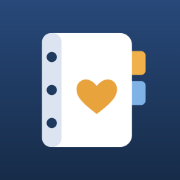
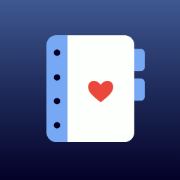
update branding

diff --git a/style.css b/style.css
@@ -1,15 +1,15 @@
 /* Family Health Binder website styles.
    To restyle the whole site, change the colors and fonts in :root below. */
 :root {
-  --brand: #1f3a5f;        /* Binder Navy: buttons, links, icons */
-  --brand-dark: #142844;   /* hover state */
-  --brand-soft: #e6edf6;   /* light accent backgrounds */
-  --accent: #e8a33d;       /* amber: highlights, never small text on white */
-  --accent-text: #c9821e;  /* amber when used as text */
+  --brand: #2b3f75;        /* Navy: buttons, links, icons */
+  --brand-dark: #1f2b5b;   /* hover state */
+  --brand-soft: #e4eaf7;   /* light accent backgrounds */
+  --accent: #eb473b;       /* logo red: small marks only */
+  --accent-text: #b3261e;  /* red when used as text */
   --text: #16202e;
   --muted: #6b7686;
   --bg: #ffffff;
-  --bg-alt: #f3f5f9;
+  --bg-alt: #f4f6fb;
   --border: #e1e5ec;
   --font: -apple-system, BlinkMacSystemFont, "SF Pro Text", "Segoe UI", Roboto, Helvetica, Arial, sans-serif;
   --radius: 14px;
@@ -17,16 +17,16 @@
 }
 @media (prefers-color-scheme: dark) {
   :root {
-    --brand: #8db4e8;
-    --brand-dark: #b4cff2;
-    --brand-soft: #1d2d45;
-    --accent: #f2c271;
-    --accent-text: #f2c271;
+    --brand: #77a8f3;
+    --brand-dark: #a9c8f5;
+    --brand-soft: #1e2c55;
+    --accent: #f0685d;
+    --accent-text: #ff8a80;
     --text: #e6ebf2;
     --muted: #93a0b2;
-    --bg: #0d131c;
-    --bg-alt: #121b28;
-    --border: #223047;
+    --bg: #070a1f;
+    --bg-alt: #0e1330;
+    --border: #232a4a;
   }
 }
 
@@ -137,7 +137,7 @@ details p, details ol, details ul { color: var(--muted); }
 
 /* ---------- Phone mockup (illustrations, not screenshots) ----------
    The app screens inside always use light iOS colors, like a real screenshot. */
-.phone { --ios-bg: #f3f5f9; --ios-card: #fff; --ios-text: #16202e; --ios-muted: #6b7686; --ios-line: #e1e5ec; --ios-blue: #1f3a5f; --ios-green: #2e9d5b;
+.phone { --ios-bg: #f4f6fb; --ios-card: #fff; --ios-text: #16202e; --ios-muted: #6b7686; --ios-line: #e1e5ec; --ios-blue: #2b3f75; --ios-green: #2e9d5b;
   width: 270px; aspect-ratio: 9 / 19.2; background: #1b1f22; border-radius: 44px; padding: 11px; box-shadow: 0 30px 60px -20px rgba(15, 25, 50, .35), 0 0 0 1px rgba(0,0,0,.06);
   flex: none; position: relative; font-family: -apple-system, BlinkMacSystemFont, "SF Pro Text", "Segoe UI", Roboto, sans-serif; }
 .screen { position: relative; height: 100%; border-radius: 34px; overflow: hidden; background: var(--ios-bg); color: var(--ios-text); font-size: 12.5px; line-height: 1.35; }
@@ -156,8 +156,8 @@ details p, details ol, details ul { color: var(--muted); }
 .row .v { font-weight: 500; }
 .row .chev { color: #c4c4c7; font-size: 15px; }
 .avatar { width: 34px; height: 34px; border-radius: 50%; display: grid; place-items: center; font-weight: 600; font-size: 13px; flex: none; }
-.a1 { background: #dce6f3; color: #1f3a5f; } .a2 { background: #fbecd2; color: #8a5a10; } .a3 { background: #ddefe8; color: #22664f; } .a4 { background: #f1e3f2; color: #7a3d82; }
-.pill { font-size: 10px; background: #fbecd2; color: #8a5a10; padding: 2px 7px; border-radius: 10px; white-space: nowrap; }
+.a1 { background: #dce6f8; color: #2b3f75; } .a2 { background: #fce1de; color: #b0322a; } .a3 { background: #ddefe8; color: #22664f; } .a4 { background: #ede4f7; color: #5b3e8f; }
+.pill { font-size: 10px; background: #fce1de; color: #b0322a; padding: 2px 7px; border-radius: 10px; white-space: nowrap; }
 .toast { position: absolute; left: 14px; right: 14px; bottom: 22px; background: var(--ios-green); color: #fff; border-radius: 12px; padding: 10px 12px; font-weight: 600; font-size: 12px; display: flex; gap: 8px; align-items: center; box-shadow: 0 8px 20px rgba(0,0,0,.18); }
 .copied { position: absolute; left: 50%; transform: translateX(-50%); background: rgba(30,30,30,.88); color: #fff; padding: 6px 12px; border-radius: 16px; font-size: 11px; font-weight: 600; }
 
@@ -178,7 +178,7 @@ details p, details ol, details ul { color: var(--muted); }
 .demo-intake .r1 { animation: hl 12s infinite; }
 .demo-intake .r2 { animation: hl 12s 3s infinite; }
 .demo-intake .r3 { animation: hl 12s 6s infinite; }
-@keyframes hl { 0%, 4% { background: transparent; } 6%, 18% { background: #e3eaf4; } 22%, 100% { background: transparent; } }
+@keyframes hl { 0%, 4% { background: transparent; } 6%, 18% { background: #e4eaf7; } 22%, 100% { background: transparent; } }
 .demo-intake .copied { top: 46%; opacity: 0; animation: pop 3s infinite; }
 @keyframes pop { 0%, 8% { opacity: 0; } 14%, 50% { opacity: 1; } 60%, 100% { opacity: 0; } }
 .paper { width: 260px; background: #fffef9; color: #222; border-radius: 6px; padding: 18px 18px 14px; box-shadow: 0 18px 40px -16px rgba(0,0,0,.35); font-family: Georgia, "Times New Roman", serif; transform: rotate(1.5deg); flex: none; position: relative; }
@@ -233,15 +233,15 @@ details p, details ol, details ul { color: var(--muted); }
 }
 
 /* Family screen header band, as in the app */
-.band { background: #1f3a5f; color: #fff; padding-bottom: 14px; margin-bottom: 12px; }
+.band { background: #2b3f75; color: #fff; padding-bottom: 14px; margin-bottom: 12px; }
 .band .statusbar { color: #fff; }
 .band h4 { color: #fff; }
 .band .nav { padding-bottom: 0; }
 .band-sub { color: #c9d6e8; font-size: 11px; margin-top: 2px; }
 .tile b { color: var(--ios-blue); }
-.checks li::before { background: #fbecd2; }
-.checks li::after { border-color: #c9821e; }
-@media (prefers-color-scheme: dark) { .checks li::before { background: #3d2f17; } .checks li::after { border-color: #f2c271; } }
+.checks li::before { background: #e4eaf7; }
+.checks li::after { border-color: #2b3f75; }
+@media (prefers-color-scheme: dark) { .checks li::before { background: #1e2c55; } .checks li::after { border-color: #77a8f3; } }
 
 /* Intake demo: the paper form overlaps the phone */
 .demo-intake { flex-wrap: nowrap; gap: 0; align-items: flex-end; }
@@ -258,9 +258,9 @@ details p, details ol, details ul { color: var(--muted); }
 .demo-intake .r1 { animation: hl1 12s infinite; }
 .demo-intake .r2 { animation: hl2 12s infinite; }
 .demo-intake .r3 { animation: hl3 12s infinite; }
-@keyframes hl1 { 0%, 4% { background: transparent; } 6%, 18% { background: #e3eaf4; } 21%, 100% { background: transparent; } }
-@keyframes hl2 { 0%, 29% { background: transparent; } 31%, 43% { background: #e3eaf4; } 46%, 100% { background: transparent; } }
-@keyframes hl3 { 0%, 54% { background: transparent; } 56%, 68% { background: #e3eaf4; } 71%, 100% { background: transparent; } }
+@keyframes hl1 { 0%, 4% { background: transparent; } 6%, 18% { background: #e4eaf7; } 21%, 100% { background: transparent; } }
+@keyframes hl2 { 0%, 29% { background: transparent; } 31%, 43% { background: #e4eaf7; } 46%, 100% { background: transparent; } }
+@keyframes hl3 { 0%, 54% { background: transparent; } 56%, 68% { background: #e4eaf7; } 71%, 100% { background: transparent; } }
 .demo-intake .copied { animation: copied 12s infinite; }
 @keyframes copied {
   0%, 7% { opacity: 0; top: 30%; } 8%, 16% { opacity: 1; top: 30%; } 17%, 32% { opacity: 0; top: 30%; }
@@ -272,3 +272,5 @@ details p, details ol, details ul { color: var(--muted); }
 @keyframes w1 { 0%, 10% { clip-path: inset(0 100% 0 0); opacity: 1; } 18%, 92% { clip-path: inset(0 0 0 0); opacity: 1; } 97%, 100% { clip-path: inset(0 0 0 0); opacity: 0; } }
 @keyframes w2 { 0%, 35% { clip-path: inset(0 100% 0 0); opacity: 1; } 43%, 92% { clip-path: inset(0 0 0 0); opacity: 1; } 97%, 100% { clip-path: inset(0 0 0 0); opacity: 0; } }
 @keyframes w3 { 0%, 60% { clip-path: inset(0 100% 0 0); opacity: 1; } 68%, 92% { clip-path: inset(0 0 0 0); opacity: 1; } 97%, 100% { clip-path: inset(0 0 0 0); opacity: 0; } }
+.results { transition: opacity .4s; }
+.results.hidden { opacity: 0; }

diff --git a/support.html b/support.html
@@ -71,13 +71,21 @@
       </details>
 
       <details>
-        <summary>What happens when the free trial ends?</summary>
-        <p>Nothing is deleted. You can still view, copy, share and export every record. To add or edit records again, buy the one-time unlock for $6.99. There's no subscription.</p>
+        <summary>How does the free trial work?</summary>
+        <p>When you first open the app, tap <span class="path">Start your free trial</span> and confirm with Apple. Everything is included for 14 days. After that the annual plan is $9.99 a year. If you cancel before the 14 days are up, you won't be charged. The app reminds you a few days before the trial ends.</p>
+      </details>
+      <details>
+        <summary>How do I cancel?</summary>
+        <p>On your iPhone, open <span class="path">Settings › your name › Subscriptions</span>, choose Family Health Binder and tap <span class="path">Cancel Subscription</span>. You can also get there from the app: <span class="path">Settings › Plan › Manage or cancel subscription</span>. Your plan keeps working until the end of the time you've paid for.</p>
+      </details>
+      <details>
+        <summary>What happens if I cancel or don't subscribe?</summary>
+        <p>Nothing is deleted. You can still view, copy, share and export every record. To add or edit records again, choose a plan: $9.99 a year, or $19.99 once for lifetime access.</p>
       </details>
 
       <details>
-        <summary>I already paid. How do I unlock on another iPhone?</summary>
-        <p>Install the app on the other iPhone with the same Apple Account, open the unlock screen and tap <span class="path">Restore purchase</span>. With Apple Family Sharing turned on, people in your Family Sharing group can do the same with their own Apple Account.</p>
+        <summary>I already paid. How do I get my plan on another iPhone?</summary>
+        <p>Install the app on the other iPhone with the same Apple Account, open <span class="path">Settings › Plan</span> and tap <span class="path">Restore purchases</span>. With Apple Family Sharing turned on, people in your Family Sharing group can do the same with their own Apple Account.</p>
       </details>
 
       <details>

diff --git a/privacy.html b/privacy.html
@@ -62,7 +62,7 @@
       <p>If you send feedback from the app, it opens your own email app with a message addressed to us. The message includes the app version, your iOS version and your device type so we can help, and nothing from your records. We receive only what you choose to send, and we use it only to answer you and improve the app. Please don't include medical details in emails. Ask us any time to delete your emails.</p>
 
       <h2>Purchases</h2>
-      <p>The free trial is tracked on your iPhone. If you buy the one-time unlock, Apple handles the payment. We do not receive your name or payment details.</p>
+      <p>Subscriptions, free trials and lifetime purchases are handled by Apple. We do not receive your name or payment details.</p>
 
       <h2>Children</h2>
       <p>Parents can keep records for their children in the app. Because nothing is collected, we do not collect information from or about children.</p>
